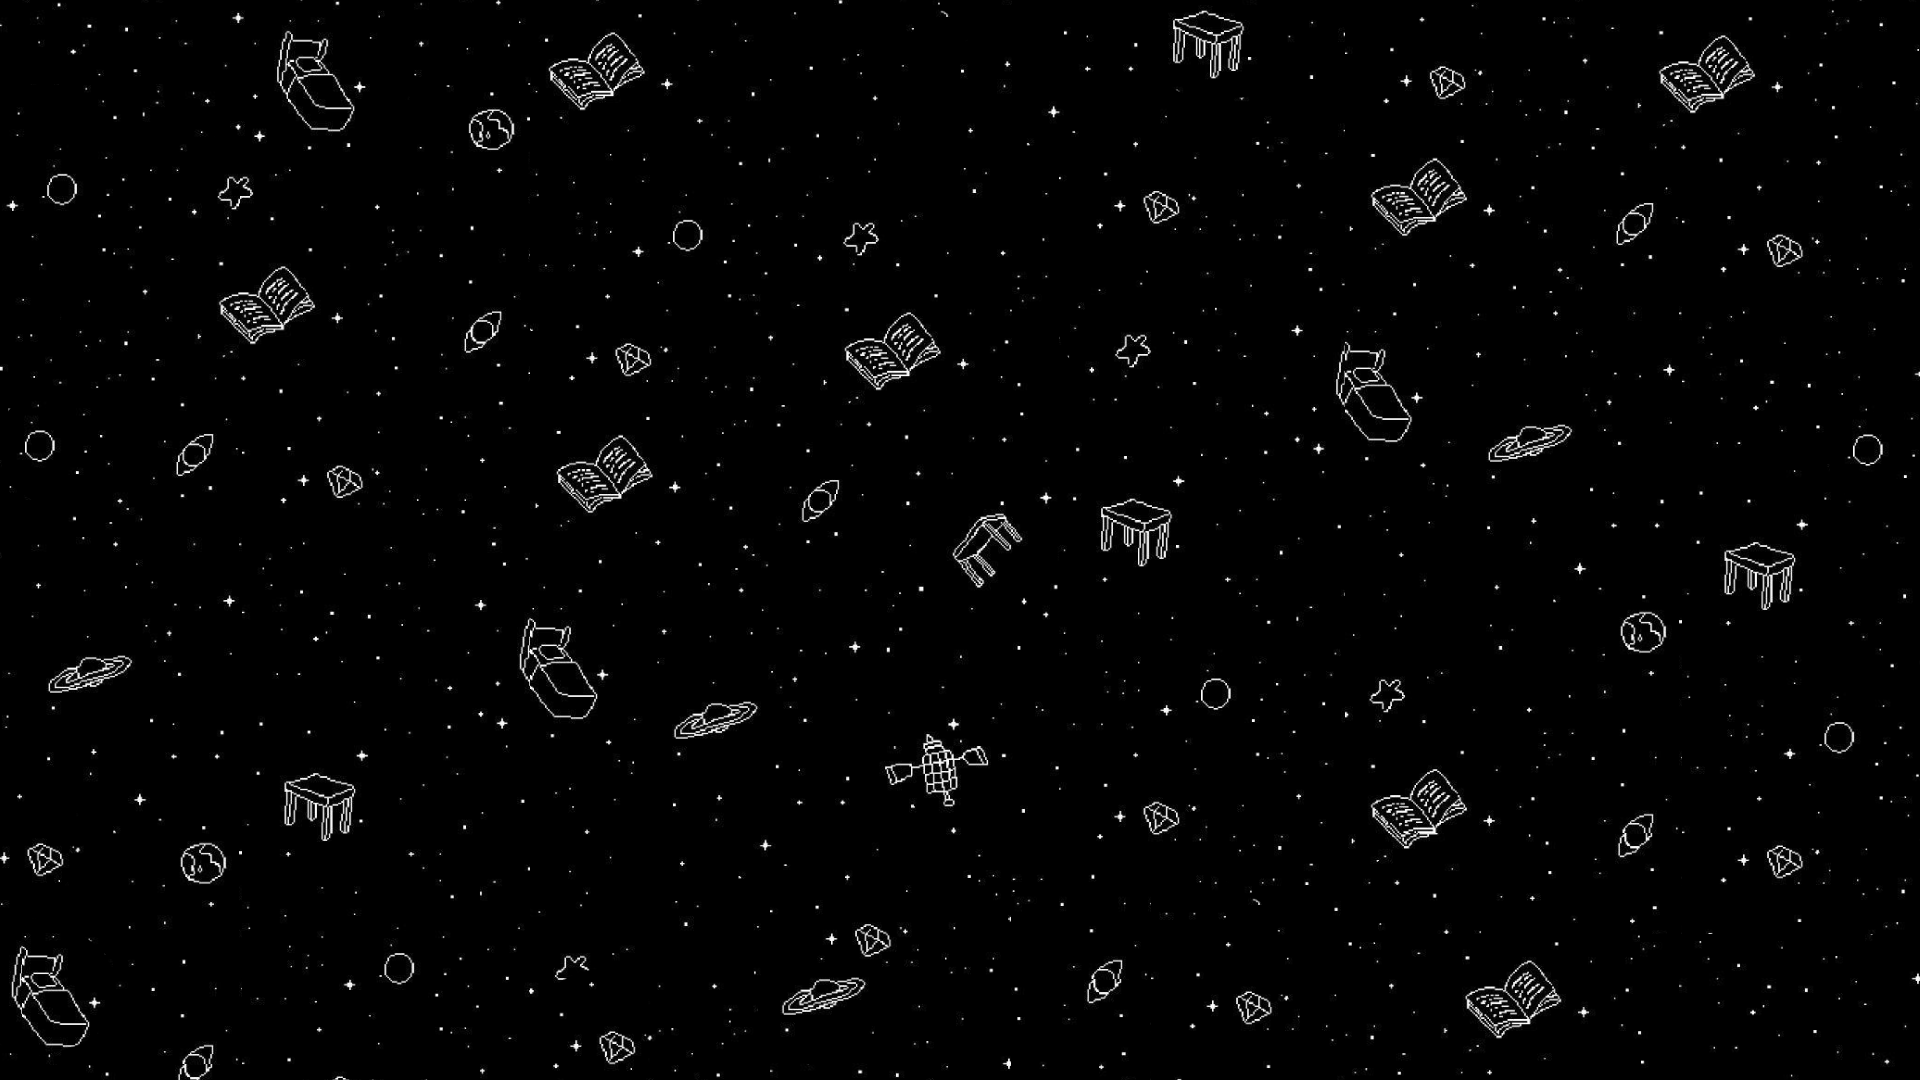
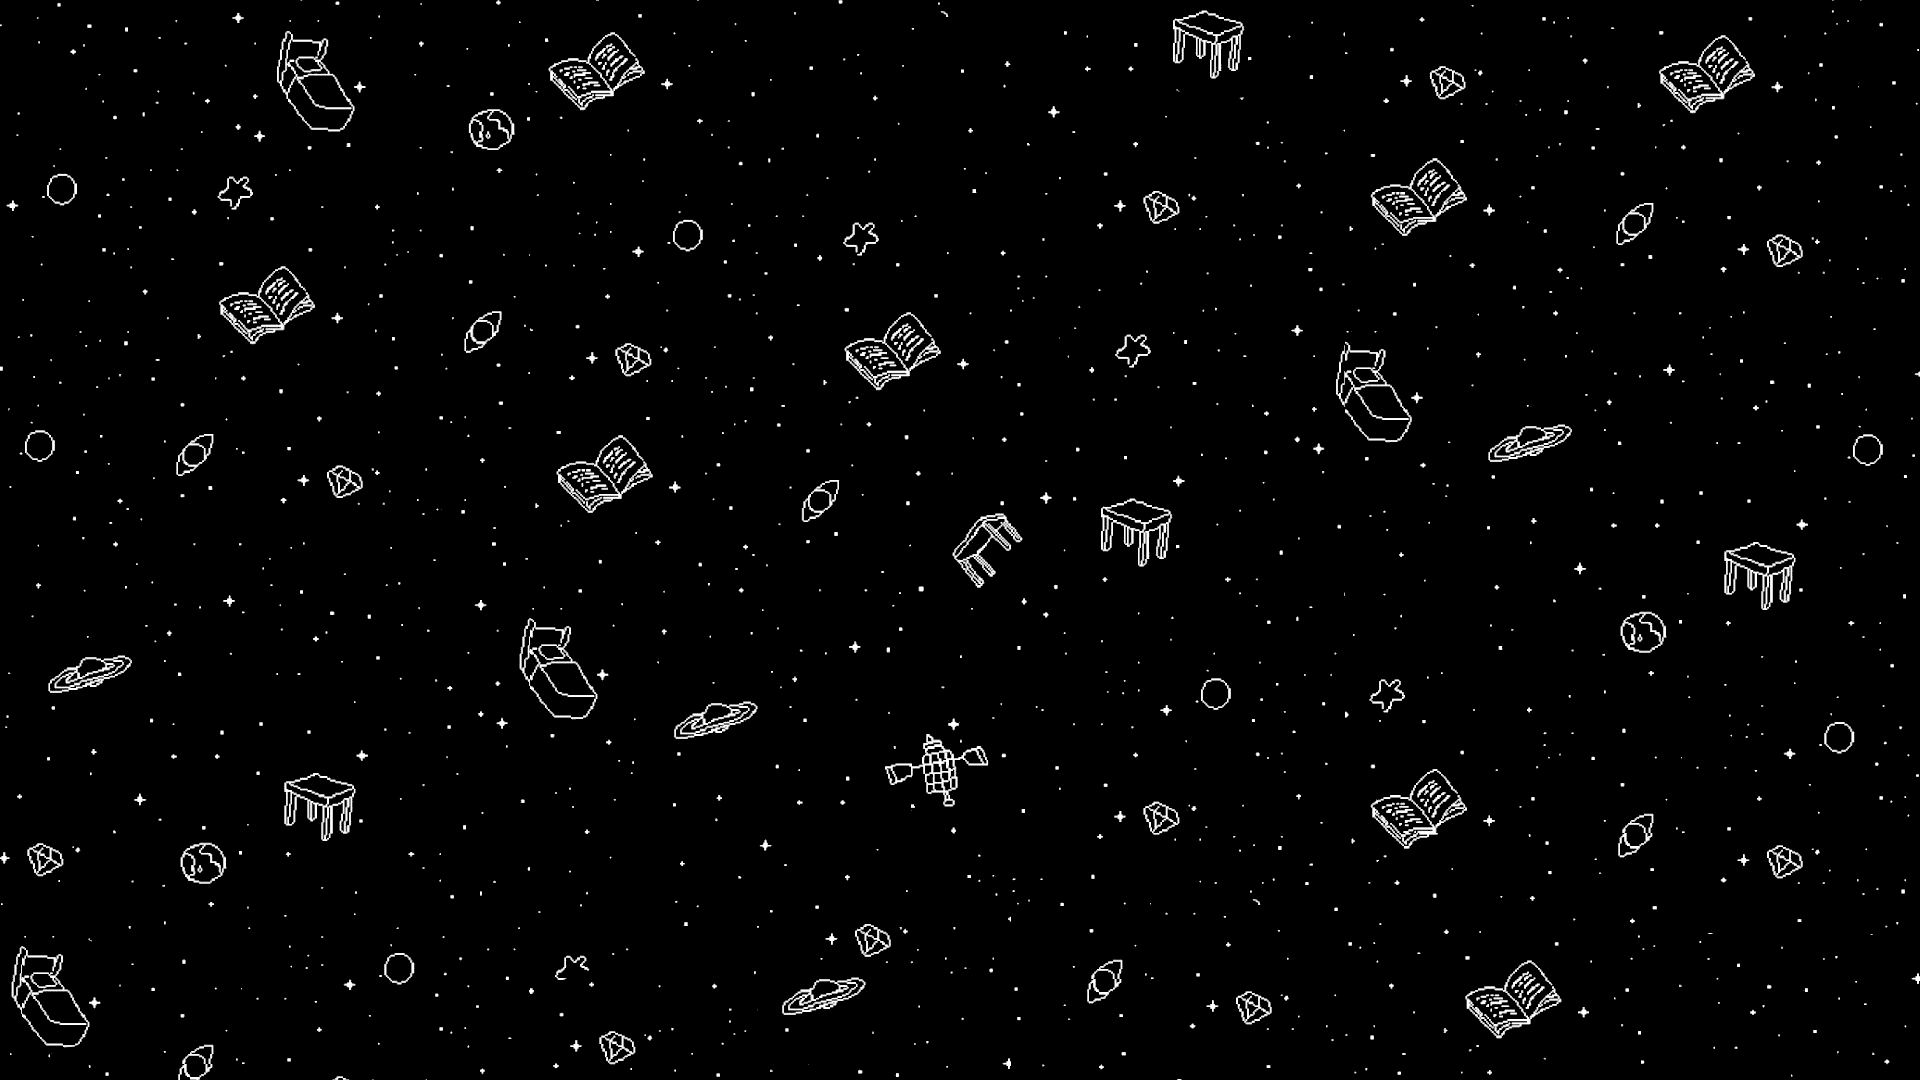
high res omori bg

diff --git a/page/about-me.html b/page/about-me.html
@@ -18,42 +18,47 @@
         <div id="fade">
             <div class="main" style="background-image: url('../media/omoribg3.png');">
                 <main class="about-me">
-                    <h1 class="hello">Hello!</h1>
-                    <figure class="portrait">
-                        <img  onload="fadeItIn()" class="face" src="../media/face.png" alt="" style="width: 300px">
-                        <figcaption>Matthew Jason M. Flordeliza</figcaption>
-                    </figure>
-                    <p class="introduction">I am Matthew Jason M. Flordeliza, a 17 year-old ICT student in Theresian School of Cavite.
-                        I was born in February 13, 2007.</p>
-                    <br>
-                    <p><span class="b-points">Accomplishments:</span></p>
-                    <ul class="accomp">
-                        <li>Finishing 1st to 10th Grade Education</li>
-                        <li>Consistent Honors Student</li>
-                        <li>CavPUSO ISpell 2020 Bronze Medalist</li>
-                        <li>BCOPS Sciencefest Quiz Bee 2017 3rd Placer</li>
-                        <li>BCOPS Sciencefest Quiz Bee 2018 1st Placer</li>
-                    </ul>
-                    <br>
-                    <p><span class="b-points">Skills:</span></p>
-                    <ul class="accomp">
-                        <li>English Fluency</li>
-                        <li>Photo Editing</li>
-                        <li>Video Editing</li>
-                        <li>C++ Programming</li>
-                        <li>HTML, CSS, JS Stack Knowledge</li>
-                    </ul>
-                    <br>
-                    <p><span class="b-points">Hobbies:</span></p>
-                    <ul class="accomp">
-                        <li>Playing Guitar</li>
-                        <li>Playing Rhythm Games</li>
-                        <li>Reading Novels</li>
-                        <li>Watching Animated Shows</li>
-                        <li>Coding</li>
-                    </ul>
+                    <span class="about-top-name"><a href="../index.html"  style="text-align: center;" class="top-name-about">FLORDELIZA</a></span>
+                    <div class="container">
+                        <h1 class="hello"><span>Hello!</span></h1>
+                        <figure class="portrait">
+                            <img  onload="fadeItIn()" class="face" src="../media/face.png" alt="" style="width: 300px">
+                            <figcaption>Matthew Jason M. Flordeliza</figcaption>
+                        </figure>
+                        <p class="introduction">I am Matthew Jason M. Flordeliza, a 17 year-old ICT student in Theresian School of Cavite.
+                            I was born in February 13, 2007.</p>
+                        <br>
+                        <p><span class="b-points">Accomplishments:</span></p>
+                        <ul class="accomp">
+                            <li>Finishing 1st to 10th Grade Education</li>
+                            <li>Consistent Honors Student</li>
+                            <li>CavPUSO ISpell 2020 Bronze Medalist</li>
+                            <li>BCOPS Sciencefest Quiz Bee 2017 3rd Placer</li>
+                            <li>BCOPS Sciencefest Quiz Bee 2018 1st Placer</li>
+                        </ul>
+                        <br>
+                        <p><span class="b-points">Skills:</span></p>
+                        <ul class="accomp">
+                            <li>English Fluency</li>
+                            <li>Photo Editing</li>
+                            <li>Video Editing</li>
+                            <li>C++ Programming</li>
+                            <li>HTML, CSS, JS Stack Knowledge</li>
+                        </ul>
+                        <br>
+                        <p><span class="b-points">Hobbies:</span></p>
+                        <ul class="accomp">
+                            <li>Playing Guitar</li>
+                            <li>Playing Rhythm Games</li>
+                            <li>Reading Novels</li>
+                            <li>Watching Animated Shows</li>
+                            <li>Coding</li>
+                        </ul>
+                        <div class="index-button-container">
+                            <a href="../pagelist.html"><p class="index-button">Page Index</p></a>
+                        </div>
+                    </div>
                 </main>
-                <span class="about-top-name"><a href="../index.html"  style="text-align: center;">FLORDELIZA</a></span>
             </div>
         </div>  
         <script>

diff --git a/style.css b/style.css
@@ -4,6 +4,9 @@
 	--font-size: 14px;
 	--background-color: rgb(0, 0, 0);
 	--color: rgba(238,238,238);
+  --hover-color: rgb(0, 0, 0);
+  --shade-color: rgb(178, 178, 178);
+  --hover-weight: 900;
 }
 
 * {
@@ -97,10 +100,6 @@ body {
 
 /* art index */
 
-.m {
-
-}
-
 .list img {
   height: 20%;
   margin: 10px 0 10px 0;
@@ -171,38 +170,50 @@ th {
 /* about me */
 
 .about-me {
+  overflow:scroll;
+}
+
+.container {
   padding: 1.5rem;
   border-width: 4px;
   border-style: double;
-  height: 98vh;
-  overflow: auto;
+  height: auto;
+  overflow:scroll;
   background-color: var(--background-color);
+  position: relative;
+
 }
 
 .about { 
   padding: 8px;
 }
-.about-outer {
-  padding: 4px;
-  border-width: 1px;
-  height: 100%;
-}
-
-.about-inner {
-  padding: 1.5rem;
-  border-width: 1px;
-  height: 100%;
-}
 
 .about-top-name {
-  padding-left: .5rem;
-  padding-right: .5rem;
-  background-color: rgb(0, 0, 0);
-  top: 0; 
-  left: 45%;
+  left: 0;
+  right: 0;
+  margin: -10px;
   position: absolute;
   text-wrap: nowrap;
   text-align: center;
+  z-index: 6;
+}
+
+.top-name-about {
+  padding-left: .5rem;
+  padding-right: .5rem;
+  background-color: rgb(0, 0, 0);
+}
+
+.top-name-about:hover {
+  background-color: var(--shade-color);
+  color: var(--hover-color);
+  font-weight: var(--hover-weight);
+}
+
+.hello-span {
+  background-color: var(--shade-color);
+  color: var(--hover-color);
+  font-weight: var(--hover-weight);
 }
 
 .portrait {
@@ -239,6 +250,28 @@ figcaption {
   font-weight: 900;
 }
 
+.index-button {
+  font-size: 15px;
+  text-align: center;
+  
+  background-color: rgb(178, 178, 178);
+  color: #000;
+  font-weight: 900;
+}
+
+.index-button:hover {
+  background-color: rgb(11, 11, 11);
+  color: white;
+  font-weight: 300;
+}
+
+.index-button-container {
+ position: sticky;
+ bottom: 0;
+ left: 0;
+ right: 0;
+ margin: 16px;
+}
 
 :where(*,:before,:after){box-sizing:border-box;border-width:0;border-style:solid;border-color:#e5e7eb}
 :where(html){line-height:1.5;-webkit-text-size-adjust:100%;-moz-tab-size:4;tab-size:4;font-family:ui-sans-serif,system-ui,-apple-system,BlinkMacSystemFont,Segoe UI,Roboto,Helvetica Neue,Arial,Noto Sans,sans-serif,"Apple Color Emoji","Segoe UI Emoji",Segoe UI Symbol,"Noto Color Emoji"}
@@ -277,12 +310,6 @@ figcaption {
 :where(img,video){max-width:100%;height:auto}
 
 
-@media only screen and (max-width: 768px) { 
-  .about-top-name {
-    left: 40%;
-  }
-}
-
 @media only screen and (max-width: 807px) { 
   .portrait {
     float: none;
@@ -305,13 +332,15 @@ figcaption {
 }
 @media only screen and (max-width: 480px) {
   .about-top-name {
-    left: 35%;
+    left: 0;
+    right: 0;
   }
 }
 
 @media only screen and (max-width: 400px) {
   .about-top-name {
-    left: 30%;
+    left: 0;
+    right: 0;
   }
 }
 

diff --git a/index.html b/index.html
@@ -24,7 +24,7 @@
         <div class="main-front">
             <div class="header">
                 <div class="place">
-                    <a href="pagelist.html" class="uwu">
+                    <a href="page/about-me.html" class="uwu">
                         <pre id="big-uwu" style="transition: opacity 1s linear 0s;">
                             ███╗   ███╗ █████╗ ████████╗████████╗██╗  ██╗███████╗██╗    ██╗         ██╗ █████╗ ███████╗ ██████╗ ███╗   ██╗    ███╗   ███╗       ███████╗██╗      ██████╗ ██████╗ ██████╗ ███████╗██╗     ██╗███████╗ █████╗ <br>████╗ ████║██╔══██╗╚══██╔══╝╚══██╔══╝██║  ██║██╔════╝██║    ██║         ██║██╔══██╗██╔════╝██╔═══██╗████╗  ██║    ████╗ ████║       ██╔════╝██║     ██╔═══██╗██╔══██╗██╔══██╗██╔════╝██║     ██║╚══███╔╝██╔══██╗
                             ██╔████╔██║███████║   ██║      ██║   ███████║█████╗  ██║ █╗ ██║         ██║███████║███████╗██║   ██║██╔██╗ ██║    ██╔████╔██║       █████╗  ██║     ██║   ██║██████╔╝██║  ██║█████╗  ██║     ██║  ███╔╝ ███████║

diff --git a/pagelist.html b/pagelist.html
@@ -21,8 +21,7 @@
                 <div class="indice">index</div>
                 <div class="underline">
                     <ul class="list">
-                        <li><a href="index.html" >..</a></li>
-                        <li><a href="page/about-me.html">/about me</a></li>
+                        <li><a href="page/about-me.html" >..</a></li>
                         <li><a href="page/index-performance-tasks.html">/performance tasks</a></li>
                         <li><a href="page/index-others.html">/others</a></li>
                     </ul>

diff --git a/page/index-index.html b/page/index-index.html
@@ -18,7 +18,7 @@
     <div id="fade">
         <div class="main" style="background-image: url('../media/omoribg2.png');">
             <div class="index">
-                <div class="indice">/matthews index</div>
+                <div class="indice">/matthew-txt index</div>
                 <div class="underline">
                     <ul class="list">
                         <li><a href="index-others.html">..</a></li>

diff --git a/page/index-others.html b/page/index-others.html
@@ -23,7 +23,7 @@
                     <ul class="list">
                         <li><a href="../pagelist.html">..</a></li>
                         <li><a href="index-art.html">/art</a></li>
-                        <li><a href="index-index.html">/matthews</a></li>
+                        <li><a href="index-index.html">/matthew-txt</a></li>
                     </ul>
                 </div>
             </div>

diff --git a/styles/songstyle.css b/styles/songstyle.css
@@ -153,7 +153,7 @@ body {
 }
 
 .lyrics {
-    margin-top: 2%;
+    margin-top: 5%;
     font-size: 12px;
     padding-bottom: 120px;
     columns: 35em 3;
